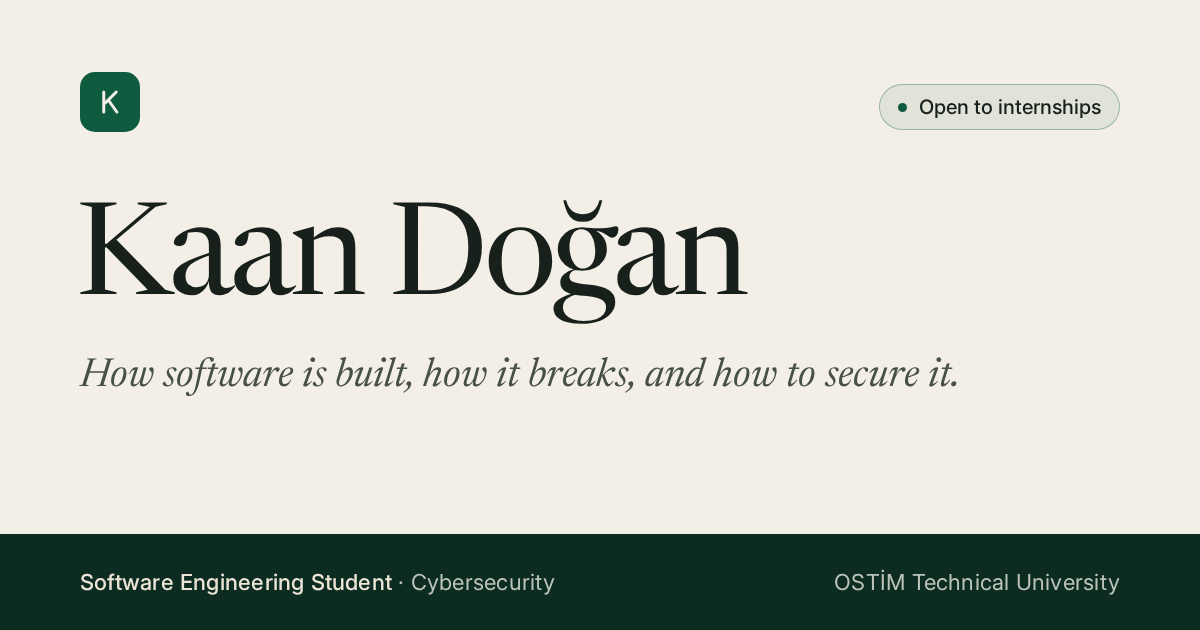
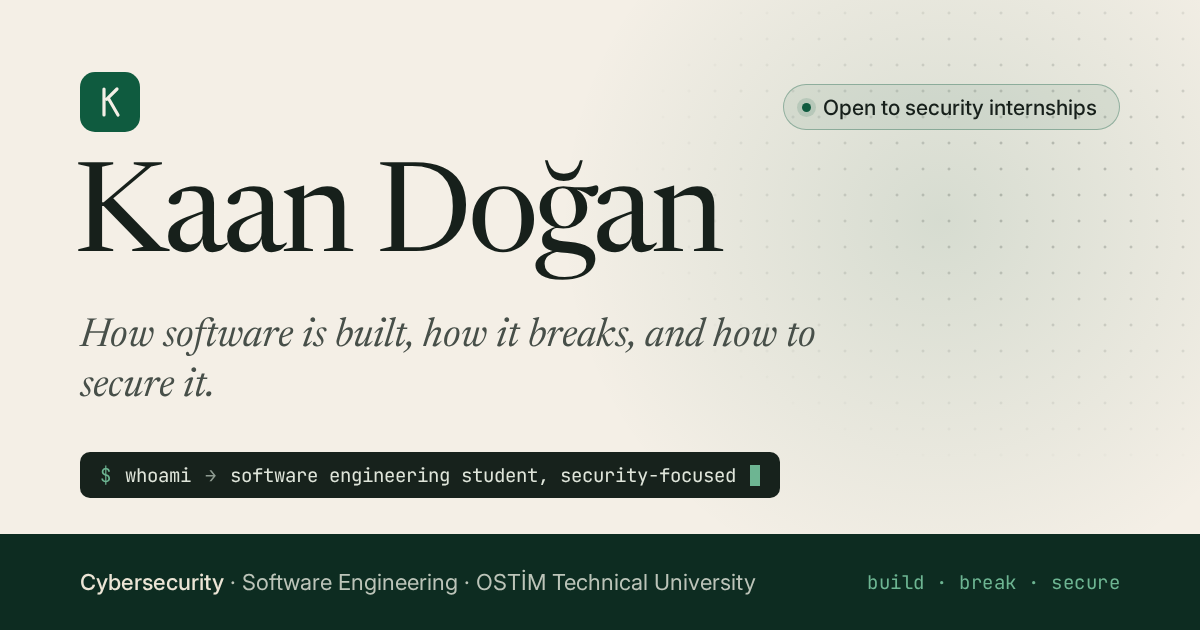
Refresh share cards, list only public projects, polish 404
- New og-en/og-tr cards with the security identity, drawn from
  scripts/og.html with the site's own fonts (replaces og.svg sketch)
- Hide m-info-get, m-finder and m-copy: no public repository exists,
  so the claims could not be checked; add anon-message (consent-first,
  dry-run by default, HMAC-fingerprinted rate limits) instead
- 404 page shows a curl -sI line for the address that was requested
- About facts no longer nest a complementary landmark (axe clean)
- Terminal colour tokens live in the root token block

diff --git a/scripts/og.html b/scripts/og.html
@@ -1,0 +1,48 @@
+<!doctype html>
+<!--
+  Source of public/og-en.png and public/og-tr.png (1200×630), drawn with the
+  site's own fonts. Open with ?lang=tr for the Turkish card and screenshot the
+  1200×630 viewport (any headless browser works).
+-->
+<html><head><meta charset="utf-8"><title>OG card</title>
+<style>
+@font-face { font-family: "Newsreader"; font-weight: 400 560; src: url("../public/fonts/Newsreader-Roman.woff2") format("woff2"); }
+@font-face { font-family: "Newsreader"; font-style: italic; font-weight: 400; src: url("../public/fonts/Newsreader-Italic.woff2") format("woff2"); }
+@font-face { font-family: "Inter"; font-weight: 400 600; src: url("../public/fonts/Inter.woff2") format("woff2"); }
+@font-face { font-family: "JetBrains Mono"; font-weight: 400 500; src: url("../public/fonts/JetBrainsMono.woff2") format("woff2"); }
+* { box-sizing: border-box; margin: 0; }
+html, body { width: 1200px; height: 630px; overflow: hidden; }
+body { position: relative; background: #f4efe6; color: #17201b; font-family: Inter, sans-serif; }
+.dots { position: absolute; inset: 0; background-image: radial-gradient(rgb(23 32 27 / 0.22) 1.3px, transparent 1.7px); background-size: 26px 26px;
+  mask-image: radial-gradient(ellipse 48% 62% at 88% 30%, #000 10%, transparent 75%); }
+.glow { position: absolute; right: -120px; top: -160px; width: 760px; height: 760px; background: radial-gradient(closest-side, rgb(15 91 63 / 0.13), transparent); }
+.mark { position: absolute; left: 80px; top: 72px; width: 60px; height: 60px; border-radius: 15px; background: #0f5b3f; display: grid; place-items: center; }
+.pill { position: absolute; right: 80px; top: 84px; display: flex; align-items: center; gap: 12px; height: 46px; padding: 0 22px 0 18px; border: 1px solid rgb(15 91 63 / 0.35); border-radius: 999px; background: rgb(15 91 63 / 0.08); font-size: 21px; font-weight: 500; }
+.pill i { width: 9px; height: 9px; border-radius: 50%; background: #0f5b3f; box-shadow: 0 0 0 5px rgb(15 91 63 / 0.14); }
+.name { position: absolute; left: 74px; top: 160px; font: 400 124px/1 Newsreader, serif; letter-spacing: -4px; }
+.line { position: absolute; left: 80px; top: 312px; max-width: 800px; font: italic 400 40px/1.25 Newsreader, serif; color: #474f49; }
+.term { position: absolute; left: 80px; top: 452px; display: flex; gap: 14px; align-items: center; height: 46px; padding: 0 20px; border-radius: 10px; background: #17221c; color: #dfe5da; font: 400 19px/1 "JetBrains Mono", monospace; }
+.term b { font-weight: 400; color: #6db592; }
+.term s { text-decoration: none; display: inline-block; width: 10px; height: 21px; background: #6db592; }
+.band { position: absolute; left: 0; right: 0; bottom: 0; height: 96px; background: #0d2c21; display: flex; align-items: center; justify-content: space-between; padding: 0 80px; font-size: 22px; color: #bcc4b9; }
+.band strong { color: #ece5d6; font-weight: 500; }
+.band .motto { font: 400 19px/1 "JetBrains Mono", monospace; color: #6db592; letter-spacing: 0.5px; }
+</style></head>
+<body>
+<div class="glow"></div><div class="dots"></div>
+<div class="mark"><svg width="32" height="32" viewBox="0 0 32 32" fill="none" stroke="#f4efe6" stroke-width="3.2" stroke-linecap="round" stroke-linejoin="round"><path d="M10 3v26M23 3 12.8 13.2M14.2 12 24 29"/></svg></div>
+<p class="pill"><i></i><span data-k="pill"></span></p>
+<h1 class="name">Kaan Doğan</h1>
+<p class="line" data-k="line"></p>
+<p class="term"><b>$</b><span>whoami</span><span style="color:#8f9c92">→</span><span data-k="who"></span><s></s></p>
+<div class="band"><span><strong data-k="role"></strong> · <span data-k="role2"></span></span><span class="motto">build · break · secure</span></div>
+<script>
+const T = {
+  en: { pill: "Open to security internships", line: "How software is built, how it breaks, and how to secure it.", who: "software engineering student, security-focused", role: "Cybersecurity", role2: "Software Engineering · OSTİM Technical University" },
+  tr: { pill: "Siber güvenlik stajlarına açığım", line: "Yazılımın nasıl yapıldığı, nasıl bozulduğu ve nasıl korunacağı.", who: "güvenlik odaklı yazılım mühendisliği öğrencisi", role: "Siber Güvenlik", role2: "Yazılım Mühendisliği · OSTİM Teknik Üniversitesi" },
+};
+const t = T[new URLSearchParams(location.search).get("lang") === "tr" ? "tr" : "en"];
+document.documentElement.lang = t === T.tr ? "tr" : "en";
+document.querySelectorAll("[data-k]").forEach((el) => (el.textContent = t[el.dataset.k]));
+</script>
+</body></html>

diff --git a/src/data/projects.ts b/src/data/projects.ts
@@ -215,6 +215,8 @@ export const projects: Project[] = [
   },
   {
     slug: "m-info-get",
+    // No public repository on GitHub (checked 2026-10-16), so it stays off the site.
+    hidden: true,
     name: "m-info-get",
     repo: gh("m-info-get"),
     tagline: {
@@ -270,6 +272,8 @@ export const projects: Project[] = [
   },
   {
     slug: "m-finder",
+    // No public repository on GitHub (checked 2026-10-16), so it stays off the site.
+    hidden: true,
     name: "m-finder",
     repo: gh("m-finder"),
     tagline: {
@@ -319,6 +323,8 @@ export const projects: Project[] = [
   },
   {
     slug: "m-copy",
+    // No public repository on GitHub (checked 2026-10-16), so it stays off the site.
+    hidden: true,
     name: "m-copy",
     repo: gh("m-copy"),
     tagline: {
@@ -346,6 +352,41 @@ export const projects: Project[] = [
       { label: LANGUAGE, value: PYTHON },
       { label: COMMITS, value: n("3") },
     ],
+    caseStudy: false,
+  },
+  {
+    slug: "anon-message",
+    name: "anon-message",
+    repo: gh("anon-message"),
+    tagline: {
+      en: "Consent-first SMS notification CLI: dry-run by default, fails closed.",
+      tr: "Onay öncelikli SMS bildirim aracı: varsayılan olarak deneme modunda, hata durumunda güvenli tarafta kalıyor.",
+    },
+    purpose: {
+      en: "A command-line tool for sending individual, opt-in SMS notifications through Textbelt, built so that the sending path is explicit and testable without contacting the provider.",
+      tr: "Textbelt üzerinden, yalnızca onay vermiş alıcılara tekil SMS bildirimleri gönderen bir komut satırı aracı; gönderim yolu açık ve sağlayıcıya bağlanmadan test edilebilir.",
+    },
+    category: { en: "Secure tooling", tr: "Güvenli araçlar" },
+    languages: ["Python"],
+    tech: ["Python 3.10+", "HMAC", "unittest", "GitHub Actions"],
+    capabilities: {
+      en: [
+        "Dry-run by default; nothing is sent without --send",
+        "Local consent allowlist and conservative rate limits",
+        "Rate-limit state stores HMAC fingerprints, not phone numbers",
+        "Timeouts, redirects disabled, provider responses validated",
+      ],
+      tr: [
+        "Varsayılan olarak deneme modu; --send olmadan hiçbir şey gönderilmiyor",
+        "Yerel onay listesi ve temkinli hız sınırları",
+        "Hız sınırı durumu telefon numarası yerine HMAC parmak izi saklıyor",
+        "Zaman aşımları, kapalı yönlendirmeler, doğrulanan sağlayıcı yanıtları",
+      ],
+    },
+    usage: { en: [], tr: [] },
+    responsible: { en: [], tr: [] },
+    structure: ["anon-message/", "tests/", ".github/"],
+    facts: [{ label: LANGUAGE, value: PYTHON }],
     caseStudy: false,
   },
   {

diff --git a/src/styles/main.css b/src/styles/main.css
@@ -104,6 +104,8 @@
   --shadow-1: 0 1px 0 var(--shadow-hi) inset, 0 1px 2px var(--shadow-ink);
   --shadow-2: 0 1px 0 var(--shadow-hi) inset, 0 18px 40px -22px var(--shadow-ink), 0 1px 2px var(--shadow-ink);
   --shadow-pop: 0 30px 80px -24px var(--shadow-ink), 0 1px 0 var(--shadow-hi) inset;
+  /* terminal ink: stays dark in both themes */
+  --term-bg: light-dark(#17221c, #0b0f0d); --term-fg: #dfe5da; --term-dim: #8f9c92; --term-p: var(--green-300);
 
   /* Motion: one curve, three durations */
   --ease: cubic-bezier(0.22, 1, 0.36, 1);
@@ -623,13 +625,14 @@ a.row__link:hover .row__ic { color: var(--c-green); transform: translate(2px, -2
 /* ───────────── Security accents ─────────────
    A terminal ink that stays dark in both themes, used sparingly: the card
    title bar, real commands from each README, and the hero caret. */
-:root { --term-bg: light-dark(#17221c, #0b0f0d); --term-fg: #dfe5da; --term-dim: #8f9c92; --term-p: var(--green-300); }
 
 .term { display: flex; gap: 0.6rem; align-items: baseline; margin: 0; padding: 0.7rem 0.9rem; border-radius: var(--r-2); background: var(--term-bg); color: var(--term-fg); font: 400 var(--t-2xs)/1.55 var(--f-mono); border: 1px solid light-dark(transparent, var(--c-line-2)); box-shadow: 0 1px 0 rgb(255 255 255 / 0.04) inset; }
 .term code { padding: 0; border: 0; background: none; font-size: inherit; color: inherit; white-space: pre-wrap; overflow-wrap: anywhere; }
 .term code span { white-space: nowrap; }
 .term__p { color: var(--term-p); user-select: none; flex: none; }
 .term--lg { font-size: var(--t-xs); padding: 0.9rem 1.1rem; margin-bottom: var(--s-4); }
+.term--block { display: block; max-width: 40rem; margin: var(--s-6) 0 0; white-space: pre-wrap; overflow-wrap: anywhere; }
+.term__out { color: var(--brass-300); }
 .card .term { margin-top: var(--s-2); position: relative; z-index: 2; }
 @media (min-width: 820px) { .card:first-child:not(.card--media) .term { grid-column: 1 / -1; margin-top: var(--s-5); } }
 

diff --git a/src/data/skills.ts b/src/data/skills.ts
@@ -13,7 +13,7 @@ export const skills: Skill[] = [
       en: "Main language. Modular command-line tools, SQLite storage, input validation, concurrent lookups.",
       tr: "Ana dilim. Modüler komut satırı araçları, SQLite ile veri saklama, girdi doğrulama, eşzamanlı sorgular.",
     },
-    evidence: ["argus", "m-dos", "hider", "m-info-get"],
+    evidence: ["argus", "m-dos", "hider", "anon-message"],
   },
   {
     name: { en: "Secure coding", tr: "Güvenli kodlama" },
@@ -21,7 +21,7 @@ export const skills: Skill[] = [
       en: "Input and URL validation, bounded subprocesses and timeouts, credentials masked in logs, confirmation before system changes.",
       tr: "Girdi ve URL doğrulama, sınırlı alt süreçler ve zaman aşımları, günlüklerde maskelenen kimlik bilgileri, sistem değişikliklerinden önce onay.",
     },
-    evidence: ["argus", "m-dos", "hider"],
+    evidence: ["argus", "m-dos", "hider", "anon-message"],
   },
   {
     name: { en: "Linux & shell", tr: "Linux ve kabuk" },
@@ -57,7 +57,7 @@ export const focusAreas: FocusArea[] = [
       en: "Command-line tools for reconnaissance and privacy, built with safe defaults and explicit limits.",
       tr: "Keşif ve gizlilik için, güvenli varsayılanlar ve açık sınırlarla geliştirilmiş komut satırı araçları.",
     },
-    evidence: ["argus", "hider", "m-info-get"],
+    evidence: ["argus", "hider", "anon-message"],
   },
   {
     name: { en: "Web security", tr: "Web güvenliği" },
@@ -65,7 +65,7 @@ export const focusAreas: FocusArea[] = [
       en: "How sites expose information, and how that exposure is assessed.",
       tr: "Sitelerin bilgiyi nasıl açığa verdiği ve bunun nasıl değerlendirildiği.",
     },
-    evidence: ["argus", "m-finder"],
+    evidence: ["argus"],
   },
   {
     name: { en: "Network security", tr: "Ağ güvenliği" },

diff --git a/src/render/sections.ts b/src/render/sections.ts
@@ -166,7 +166,7 @@ export const renderAbout = (ctx: RenderContext, num: string): string => {
           <ul class="plain plain--cols">${pick(ctx, siteConfig.currentlyLearning).map((x) => `<li>${esc(x)}</li>`).join("")}</ul>
         </div>
       </div>
-      <aside class="about__aside" aria-label="${esc(t.about.facts)}">
+      <div class="about__aside">
         ${photo}
         <dl class="facts">
           <div><dt>${t.about.name}</dt><dd>${esc(siteConfig.name)}</dd></div>
@@ -175,7 +175,7 @@ export const renderAbout = (ctx: RenderContext, num: string): string => {
           <div><dt>${t.about.program}</dt><dd>${esc(pick(ctx, siteConfig.education.program))}, ${esc(pick(ctx, siteConfig.education.year))}</dd></div>
           <div><dt>${t.about.goal}</dt><dd>${esc(pick(ctx, siteConfig.goal))}</dd></div>
         </dl>
-      </aside>
+      </div>
     </div>
   </div>
 </section>`;

diff --git a/src/render/pages.ts b/src/render/pages.ts
@@ -250,6 +250,8 @@ export const notFoundFrame = (ctx: RenderContext): PageFrame => {
   <p class="eyebrow">404</p>
   <h1 class="h2">${en.heading}</h1>
   <p class="lede">${en.text} <span lang="tr">${tr.heading} ${tr.text}</span></p>
+  <pre class="term term--lg term--block" aria-hidden="true"><code><span class="term__p">$</span> curl -sI <span data-nf-url>${esc(ctx.siteUrl || "")}/…</span>
+<span class="term__out">HTTP/2 404 Not Found</span></code></pre>
   <p class="nf__cta"><a class="btn btn--primary" href="${href(ctx, "", "en")}">${en.home}</a> <a class="btn btn--ghost" href="${href(ctx, "", "tr")}" lang="tr">${tr.home}</a></p>
 </div></section>`,
   };

diff --git a/src/client/main.ts b/src/client/main.ts
@@ -260,6 +260,10 @@ function init(): void {
     }, { signal });
   }
 
+  /* ── 404: show the address that was asked for ── */
+  const nfUrl = $<HTMLElement>("[data-nf-url]");
+  if (nfUrl) nfUrl.textContent = location.href;
+
   /* ── Reveal on scroll ── */
   const reveals = $$<HTMLElement>("[data-reveal]");
   if (reveals.length) {

diff --git a/README.md b/README.md
@@ -43,7 +43,7 @@ Bileşenlere dokunmana gerek yok. Kişisel her şey `src/data/` ve `src/i18n/` i
 | --- | --- |
 | `src/data/site.ts` | Ad, e-posta, bağlantılar, giriş cümlesi, hakkımda metni, `openToInternship` (staja açığım satırı), `photo`, `cv`, `showRepoLinks`, `showGithubSection` |
 | `src/data/projects.ts` | Projeler. Her biri iki dilli. `caseStudy: true` ise kendi sayfası olur, `hidden: true` ise gizlenir |
-| `src/data/posts.ts` | Notlar (blog). Yeni bir nesne ekle; `draft: true` ise yayınlanmaz |
+| `src/data/posts.ts` | Eski notlar. Sitede blog bölümü yok; tüm yazılar `draft: true` ile kapalı tutuluyor |
 | `src/data/skills.ts` | Kullandıkların ve güvenlik ilgi alanların |
 | `src/data/credentials.ts` | Elle yazılan sertifikalar |
 | `src/i18n/ui.ts` | Sitedeki bütün arayüz metinleri, EN ve TR |
@@ -121,7 +121,7 @@ src/
   client/     tarayıcıda çalışan küçük betikler (tema, dil, komut paleti)
   styles/     main.css
 public/       fontlar, ikonlar, paylaşım görselleri, _headers
-scripts/      build / serve / dev / LinkedIn içe aktarma
+scripts/      build / serve / dev / LinkedIn içe aktarma / og.html (paylaşım görseli şablonu)
 dist/         derleme çıktısı (yayınlanan klasör)
 .vscode/      VS Code görevleri ve F5 ayarı
 ```
